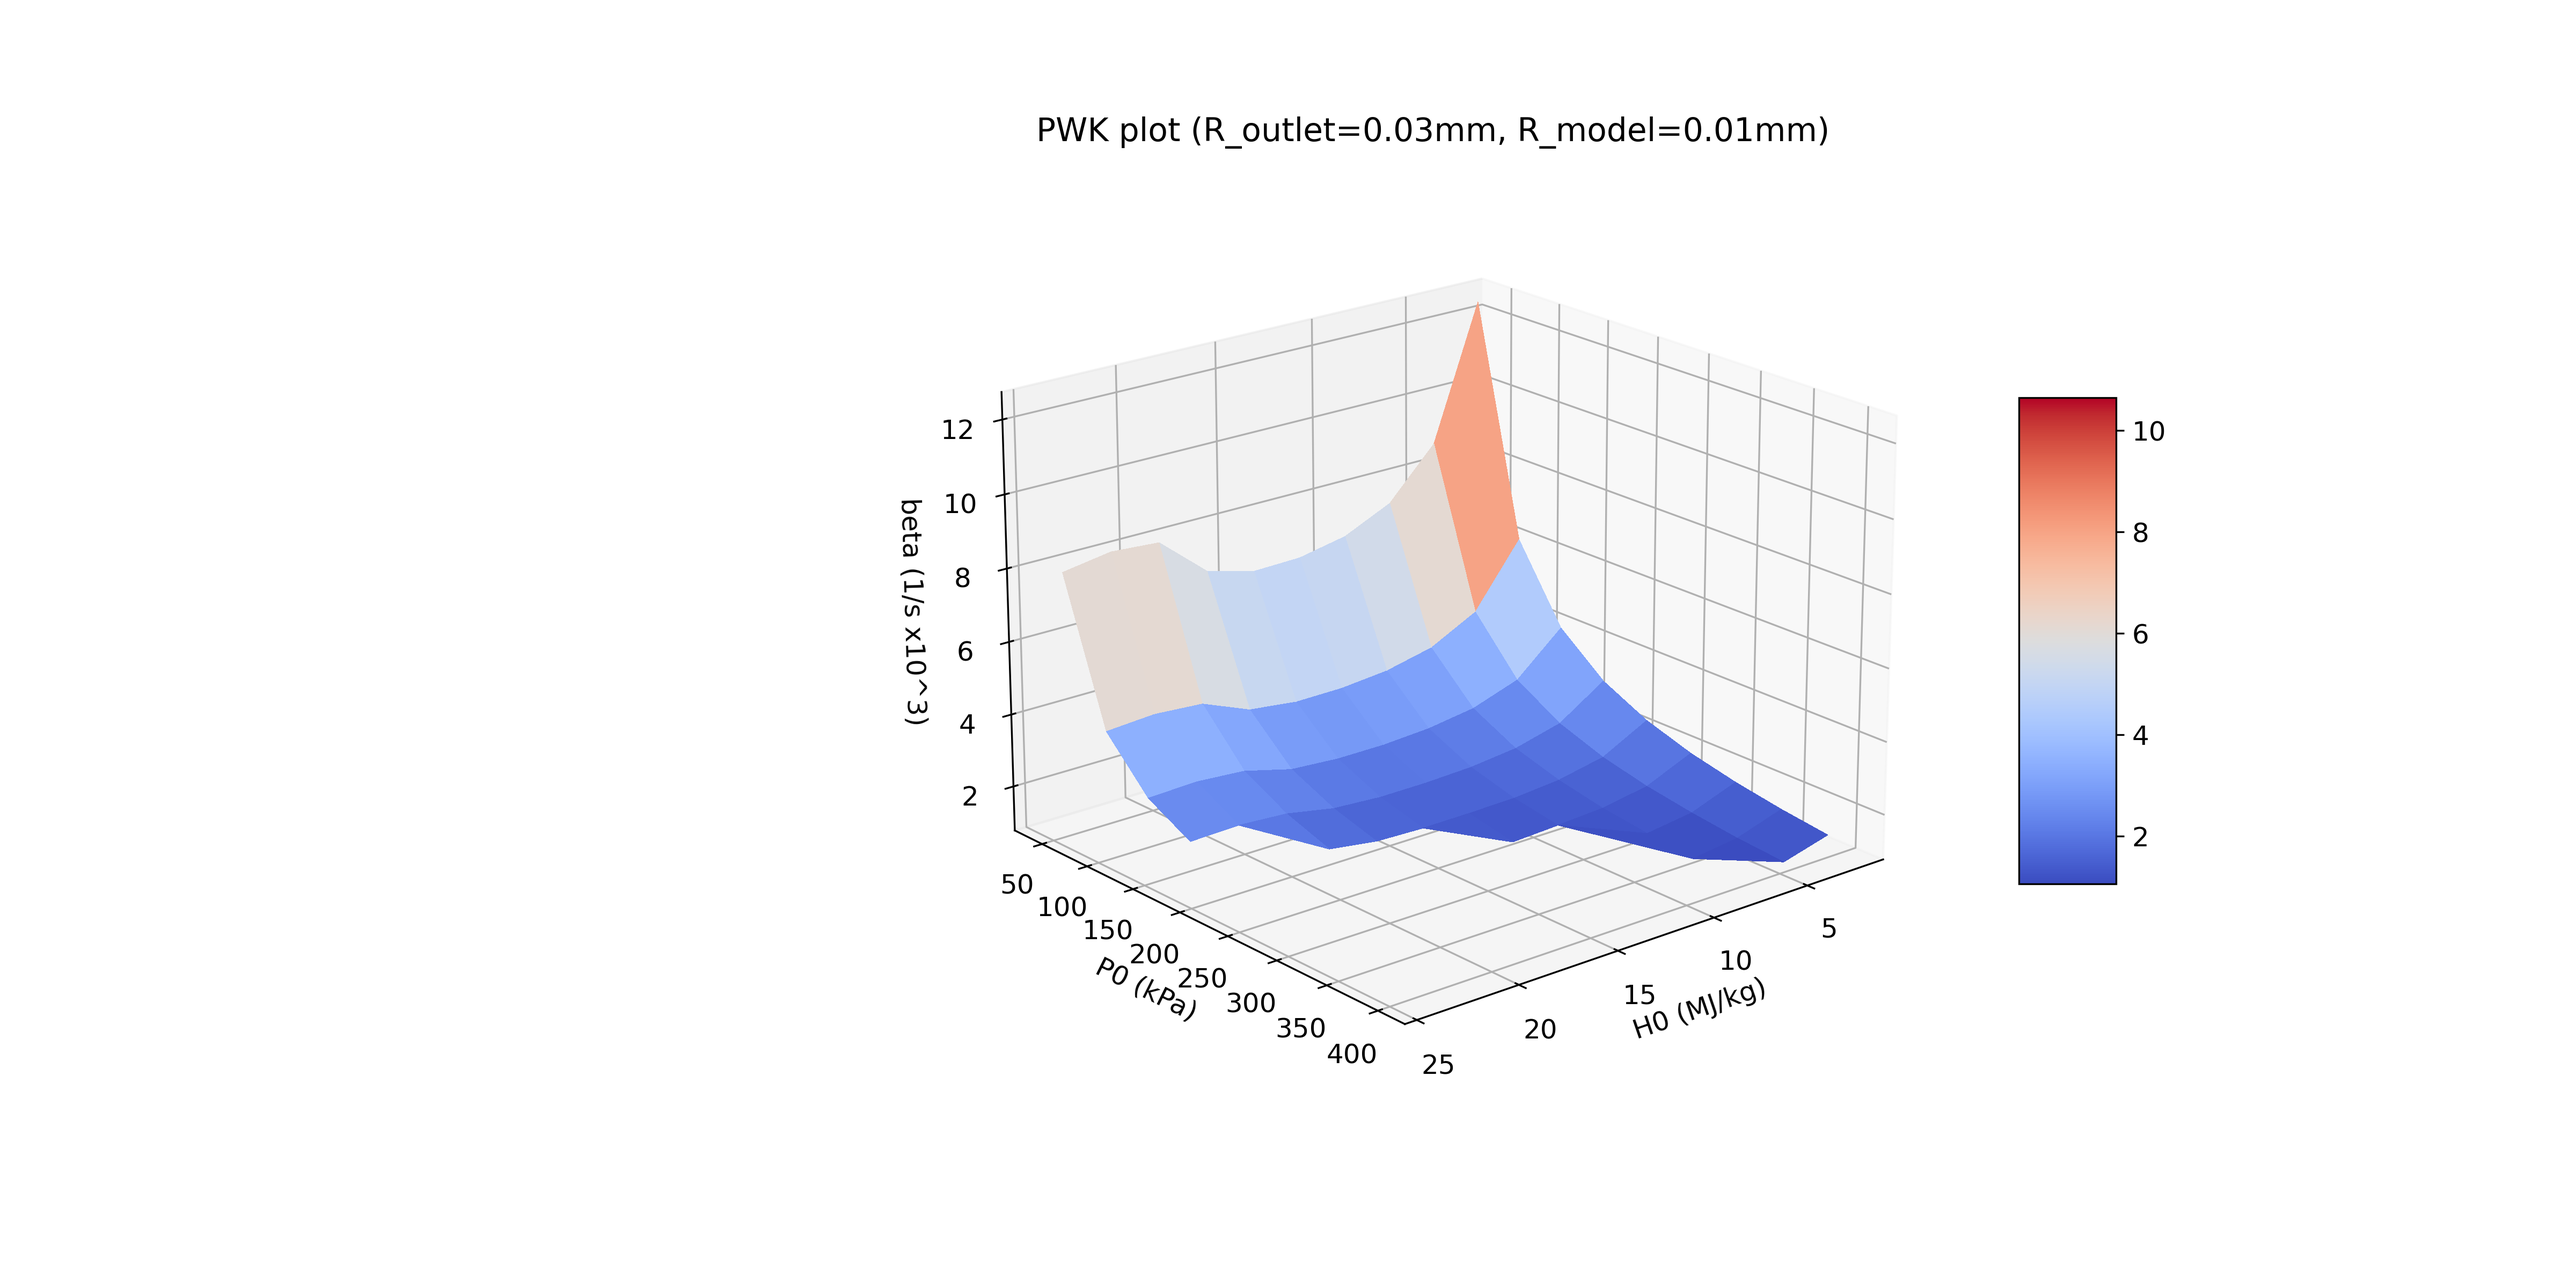
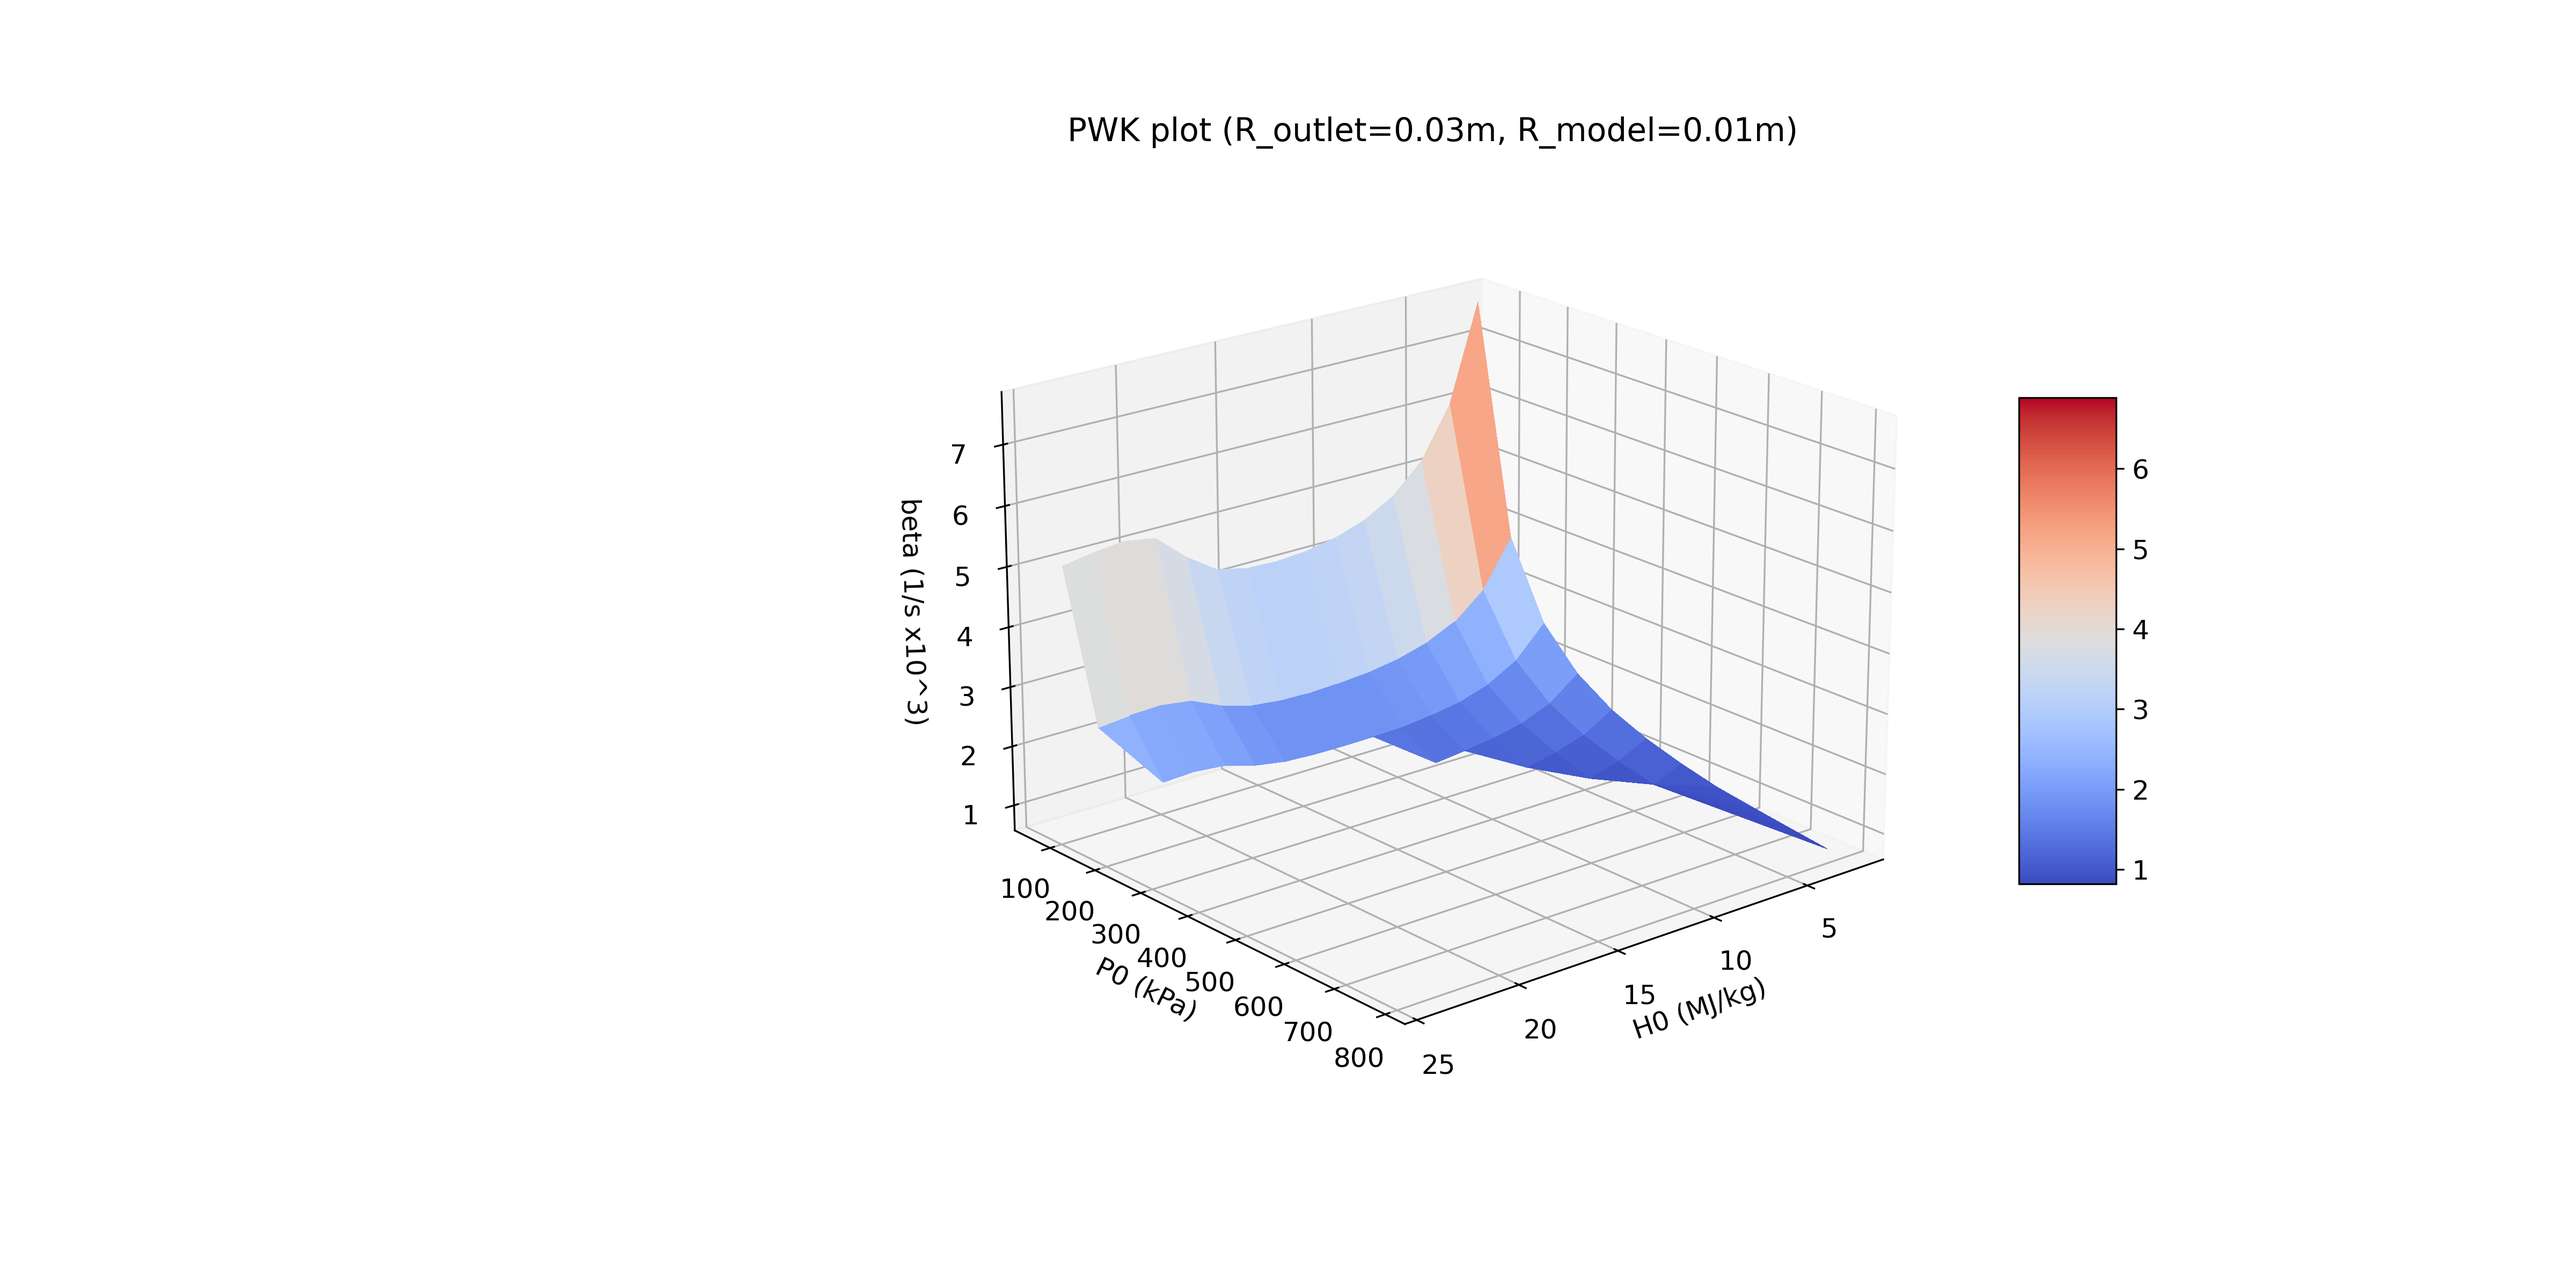
Epic meal time

diff --git a/sub&supersonic_nozzle.py b/sub&supersonic_nozzle.py
@@ -285,7 +285,7 @@ def beta_curve_PWK(mdot_range,P_arc,P0_range,R_jet,R_model,resolution):
     H_add = (0.5*P_arc/mdot)
     print(P0)
     
-    fig3 = plt.figure("3",figsize=(10,5))
+    fig1 = plt.figure("1",figsize=(10,5))
     nice_wireframe(H_add,P0,beta_square)
     ax = plt.axes(projection='3d')
     # ax.plot_wireframe(H_add/(10**6), P0/(10**3), beta_square)
@@ -296,22 +296,18 @@ def beta_curve_PWK(mdot_range,P_arc,P0_range,R_jet,R_model,resolution):
     ax.set_zlabel("beta (1/s x10^3)")
     # plt.xlim((0,25))
     # plt.ylim((0,400))
-    fig3.colorbar(surf, shrink=0.5, aspect=5)
+    fig1.colorbar(surf, shrink=0.5, aspect=5)
     ax.view_init(20,50)
-    plt.title("PWK plot (R_outlet="+str(R_jet)+'mm, R_model='+str(R_model)+"mm)")
+    plt.title("PWK plot (R_outlet="+str(R_jet)+'m, R_model='+str(R_model)+"m)")
     plt.savefig('test.png', dpi=300)
 
-    return beta_square, mdot_linspace, P0_linspace, H_add_linspace
+    return beta_square, P0, H_add, mdot_linspace, P0_linspace, H_add_linspace
 
 
-def beta_curve_flight(H0_linspace,P0_range,R_flight_vehicle,resolution):
-    H_add_linspace = np.linspace(0.5*P_arc/mdot_range[0],0.5*P_arc/mdot_range[1],resolution)
-    mdot_linspace = 0.5*P_arc/H_add_linspace
-    P0_linspace = np.linspace(P0_range[0],P0_range[1],resolution)
-    beta_square = np.zeros((resolution,resolution))
-    beta_max=[0]
-    for count1, mdot in enumerate(H0_linspace):
-        for count2, P0 in enumerate(P0_linspace):
+def beta_curve_flight(H0_linspace,P0_linspace,R_flight_vehicle,resolution):
+    beta_square_flight = np.zeros((resolution,resolution)    )
+    for count1, h0 in enumerate(H0_linspace):
+        for count2, P0 in enumerate(P0_linspace-1):
             try:
                 mech = 'airNASA9noions.cti'
                 q = 'CO2:1'    # assume CO2 atmosphere
@@ -321,78 +317,61 @@ def beta_curve_flight(H0_linspace,P0_range,R_flight_vehicle,resolution):
                 altitude_flight = altitude_from_density_long2019(density_flight)
                 pressure_flight = pressure_from_altitude_basicNASA(altitude_flight) 
                 temperature_flight = temperature_from_altitude_basicNASA(altitude_flight)
+                print(
+                    "temperature = "+str(temperature_flight) +"\n"
+                    'density = '+str(density_flight)+"\n"
+                    "altitude = "+str(altitude_flight)
+                    )
+                # check for reasonable mars atmosphere
                 
-                gas_flight = ct.ThermoPhase(mech) 
-                gas_flight.TDY =  temperature_flight, density_flight, q
-                # temperature_flight = gas_flight.T
-                gas_flight.equilibrate('TV')
-                pressure_flight = gas_flight.P
-                print(pressure_flight)
+                if temperature_flight>[130]:
+                    if [0.00001]<density_flight<[0.01]:
+                        if altitude_flight>[3000]:
+                    
+                            gas_flight = ct.ThermoPhase(mech) 
+                            gas_flight.TDY =  temperature_flight, density_flight, q
+                            # temperature_flight = gas_flight.T
+                            gas_flight.equilibrate('TV')
+                            pressure_flight = gas_flight.P
+                            print(pressure_flight)
+            
+                            # evaluate post shock conditions in flight 
+                            gas_flight_postshock = PostShock_eq(U1=v_flight, P1=pressure_flight, T1=temperature_flight, q=q, mech=mech)
+                            
+                            # evaluate stagnation density in flight 
+                            try:
+                                output = stgsolve(gas = gas_flight_postshock, gas1 = gas_flight, U1 = v_flight, Delta = 0.5)
+                                stagnation_density_flight = output['rho'][-1] 
+                            
+                                # radius_flight = v_flight/(beta/(math.sqrt((8/3)*(density_flight/stagnation_density_flight))))
+                                beta_square_flight[count1][count2] = (v_flight/R_flight_vehicle)*math.sqrt((8/3)*(density_flight/stagnation_density_flight))
+                            except:
+                                beta_square_flight[count1][count2] = 0
+                else:
+                    beta_square_flight[count1][count2] = 0
+            except RuntimeWarning:
+                beta_square_flight[count1][count2] = 0
     
-    
-                
-                # gas_flight()
-                
-                # evaluate post shock conditions in flight 
-                gas_flight_postshock = PostShock_eq(U1=v_flight, P1=pressure_flight, T1=temperature_flight, q=q, mech=mech)
-                
-                # evaluate stagnation density in flight 
-                output = stgsolve(gas = gas_flight_postshock, gas1 = gas_flight, U1 = v_flight, Delta = 0.2)
-                stagnation_density_flight = output['rho'][-1] 
-                
-                radius_flight = v_flight/(beta/(math.sqrt((8/3)*(density_flight/stagnation_density_flight))))
-                
-                
-    #             H_add = 0.5*P_arc/mdot
-    #             gas = plenum_to_nozzle_inlet(H_add, P0)
-    #             data, amin = isentropic(gas, mdot)
-    #             print("H_add = " +str(H_add))
-                
-    #             data_subsonic = []
+    P0, H0 =np.meshgrid(P0_linspace,H0_linspace)
 
-                
-    #             data_design = Nozzle_selection(data, R_jet)
-    #             v_design = data_design[6]
-    #             beta = stagnation_velocity_gradient(v_design, R_jet, R_model)
-    #             print(
-    #                 "Nozzle parameters \n"
-    #                 "Pressure = " + str(data_design[5]) + " Pa \n"
-    #                 "Temperature = " + str(data_design[2]) + " K \n"
-    #                 "Velocity = " + str(data_design[6]) + " m/s \n \n"
-    #                 "A/A* = " + str(data_design[0]) + " Pa \n""Pressure = " + str(data_design[5]) + " Pa \n"
-    #                 "P0/P = " + str(1/data_design[3]) + "  \n"
-    #                 "Outlet radius = " + str(0.05) + " m \n \n"
-    #                 "h0 = " + str(H_add/(10**6)) + " MJ/kg \n"
-    #                 "P0 = " + str(P0) + " Pa \n"
-    #                 "beta = "+str(beta) +" 1/s \n" 
-    #                 )
-    #             beta_square[count1][count2]=beta
-    #             # beta_max = max(beta_max,beta) 
-    #             # print(beta_max)
-    #         except:
-    #             beta_square[count1][count2]=0
     
-    # P0, mdot =np.meshgrid(P0_linspace,mdot_linspace)
-    # H_add = (0.5*P_arc/mdot)
-    # print(P0)
-    
-    # fig3 = plt.figure("3",figsize=(10,5))
-    # nice_wireframe(H_add,P0,beta_square)
-    # ax = plt.axes(projection='3d')
-    # # ax.plot_wireframe(H_add/(10**6), P0/(10**3), beta_square)
-    # surf = ax.plot_surface(H_add/(10**6), P0/(10**3), beta_square/(10**3), cmap=cm.coolwarm, linewidth=1, antialiased=False, rcount=200, ccount=200)
-    # plt.gcf().set_size_inches(16, 8)
-    # ax.set_xlabel("H0 (MJ/kg)")
-    # ax.set_ylabel("P0 (kPa)")
-    # ax.set_zlabel("beta (1/s x10^3)")
-    # # plt.xlim((0,25))
-    # # plt.ylim((0,400))
-    # fig3.colorbar(surf, shrink=0.5, aspect=5)
-    # ax.view_init(20,50)
-    # plt.title("PWK plot (R_outlet="+str(R_jet)+'mm, R_model='+str(R_model)+"mm)")
-    # plt.savefig('test.png', dpi=300)
+    fig2 = plt.figure("2",figsize=(10,5))
+    nice_wireframe(H0,P0,beta_square_flight)
+    ax = plt.axes(projection='3d')
+    # ax.plot_wireframe(H_add/(10**6), P0/(10**3), beta_square)
+    surf = ax.plot_surface(H0/(10**6), P0/(10**3), beta_square_flight/(10**3), cmap=cm.coolwarm, linewidth=1, antialiased=False, rcount=200, ccount=200)
+    plt.gcf().set_size_inches(16, 8)
+    ax.set_xlabel("H0 (MJ/kg)")
+    ax.set_ylabel("P0 (kPa)")
+    ax.set_zlabel("beta (1/s x10^3)")
+    # plt.xlim((0,25))
+    # plt.ylim((0,400))
+    fig2.colorbar(surf, shrink=0.5, aspect=5)
+    ax.view_init(20,50)
+    plt.title("flight plot (R_flight_vehicle="+str(R_flight_vehicle)+'m')
+    plt.savefig('test2.png', dpi=300)
 
-    return beta_square, mdot_linspace, P0_linspace
+    return beta_square_flight, P0, H0
 
 def ding():
     import winsound
@@ -401,14 +380,31 @@ def ding():
     winsound.Beep(frequency, duration)
 
 def compare_beta(resolution):
-    beta_square, mdot_linspace, P0_linspace, H_add_linspace = beta_curve_PWK(mdot_range=[0.005,0.05], P_arc = 240*10**3, P0_range=[600,400*10**3], R_jet = 0.03, R_model = 0.01, resolution = 10)
-    beta_curve_flight(H0_linspace,P0_range,R_flight_vehicle,resolution)
+    beta_square_PWK, P0_grid_PWK, H0_grid_PWK, mdot_linspace, P0_linspace, H_add_linspace = beta_curve_PWK(mdot_range=[0.005,0.05], P_arc = 240*10**3, P0_range=[600,1000*10**3], R_jet = 0.03, R_model = 0.01, resolution=resolution)
+    beta_square_flight, P0_grid_flight, H0_grid_flight = beta_curve_flight(H_add_linspace,P0_linspace,1.652,resolution)
     
+    fig3 = plt.figure("3",figsize=(10,5))
+
+    ax = plt.axes(projection='3d')
+    # ax.plot_wireframe(H_add/(10**6), P0/(10**3), beta_square)
+    surf = ax.plot_wireframe(H0_grid_PWK/(10**6), P0_grid_PWK/(10**3), beta_square_PWK/(10**3), color = "red")
+    surf = ax.plot_wireframe(H0_grid_flight/(10**6), P0_grid_flight/(10**3), beta_square_flight/(10**3), color = 'blue')
+    plt.legend(["Plasma wind tunnel","Flight"])
+    plt.gcf().set_size_inches(16, 8)
+    ax.set_xlabel("H0 (MJ/kg)")
+    ax.set_ylabel("P0 (kPa)")
+    ax.set_zlabel("beta (1/s x10^3)")
+    # plt.xlim((0,25))
+    # plt.ylim((0,400))
+    # fig2.colorbar(surf, shrink=0.5, aspect=5)
+    ax.view_init(20,50)
+    plt.title("combined")
+    plt.savefig('test3.png', dpi=300)
     
 
 if __name__ == "__main__":
     print(__doc__)
     #all_in_one_matching(mdot = 0.5, P_arc = 240*10**3, P0=1*10**3, R_jet=0.5, R_model=0.0245)
-    compare_beta(resolution=10)
+    compare_beta(resolution=15)
     ding()
 
